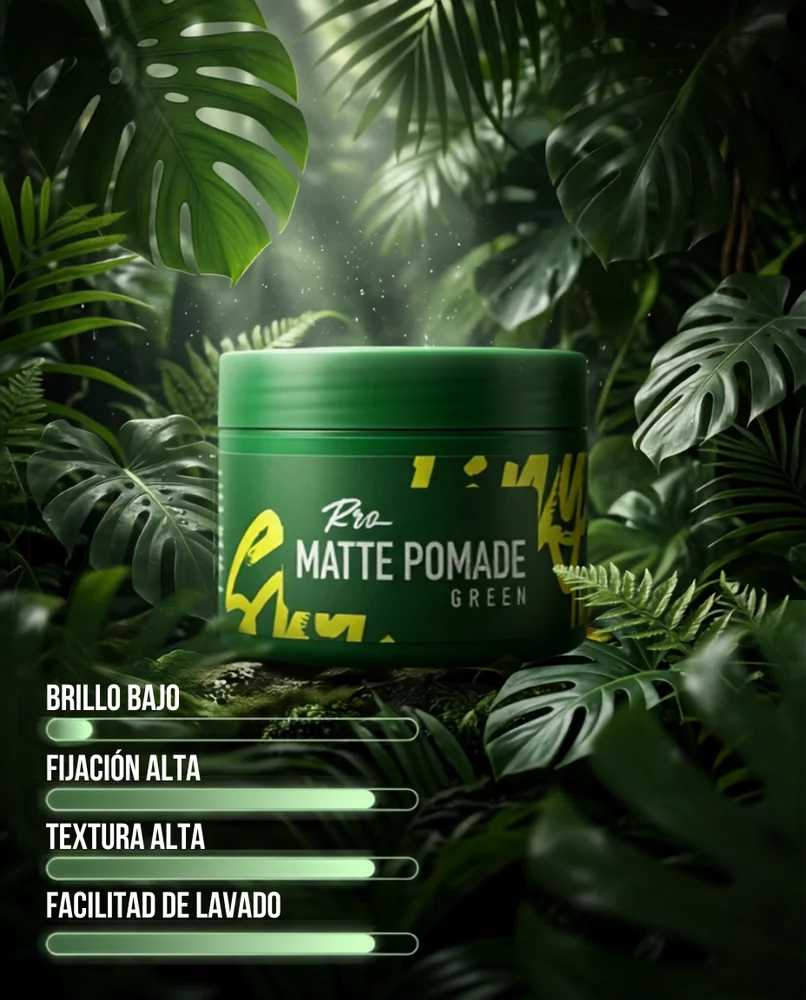
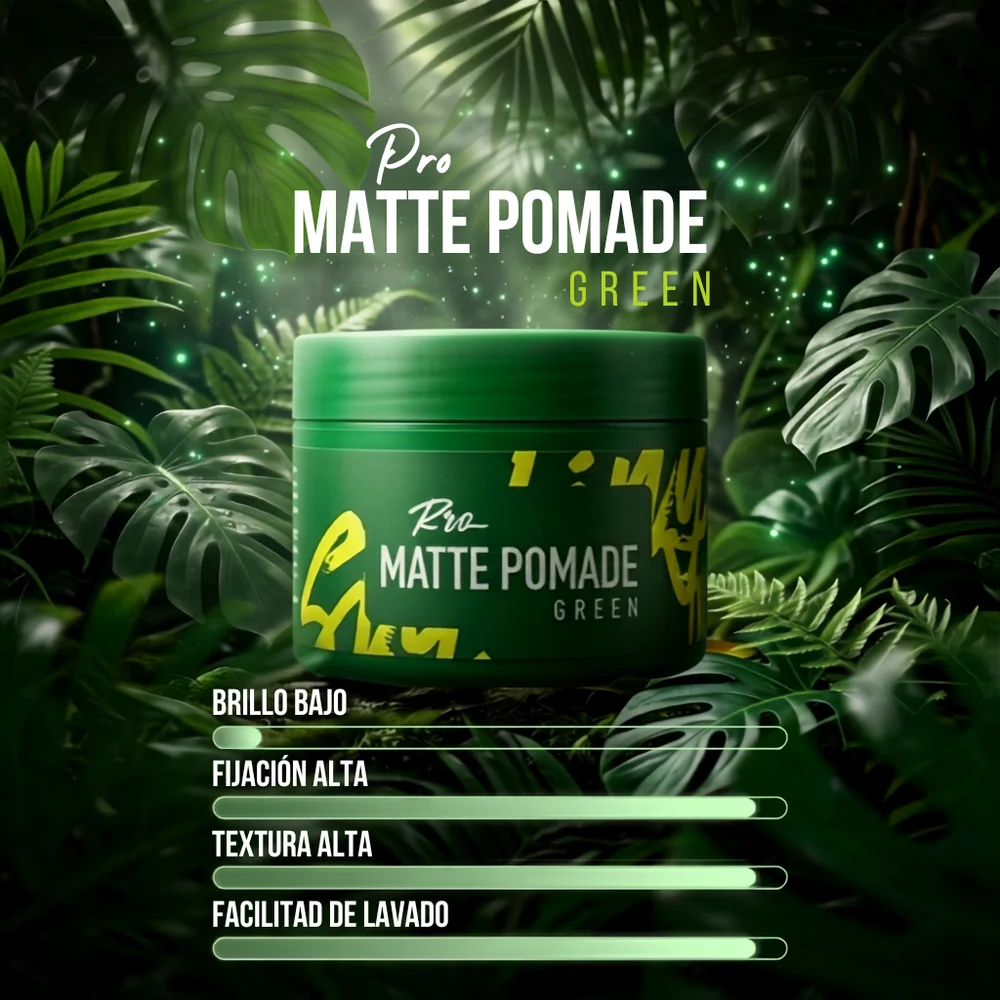
Reemplazar 6 imagenes informativas por versiones cuadradas + swap por pointerdown
El negocio re-subio 6 de las 9 piezas informativas (Peony, Fuchsia, Red, Brown, Green, Spider Wax Purple) ya en formato cuadrado 1:1 -- se convierten a webp 1000x1000 sin necesidad de letterbox, igual que Orange y Blue que ya estaban asi. Se agrega ?v=2 a esas 6 rutas en manifest.js para invalidar cache ya que el nombre de archivo no cambio. Cambia tambien el mecanismo de deteccion de toque en mobile de 'touchstart' a 'pointerdown' (mas consistente entre navegadores moviles) para asegurar que el cambio de foto ocurra apenas se apoya el dedo, sin depender de que se complete un tap/click.

diff --git a/lib/manifest.js b/lib/manifest.js
@@ -258,7 +258,7 @@
         id: "cera-deluxe-matte-wax-peony",
         icon: "tin",
         photo: "assets/img/products/cera-deluxe-matte-wax-peony-1.webp",
-        photoHover: "assets/img/products/cera-deluxe-matte-wax-peony-info.webp",
+        photoHover: "assets/img/products/cera-deluxe-matte-wax-peony-info.webp?v=2",
         category: "ceras",
         brand: "ROQVEL",
         name: "Cera Deluxe Matte Wax",
@@ -304,7 +304,7 @@
         id: "cera-deluxe-matte-pasta-fuchsia",
         icon: "tin",
         photo: "assets/img/products/cera-deluxe-matte-pasta-fuchsia-1.webp",
-        photoHover: "assets/img/products/cera-deluxe-matte-pasta-fuchsia-info.webp",
+        photoHover: "assets/img/products/cera-deluxe-matte-pasta-fuchsia-info.webp?v=2",
         category: "ceras",
         brand: "ROQVEL",
         name: "Cera Deluxe Matte",
@@ -337,7 +337,7 @@
         id: "cera-aqua-wax-red",
         icon: "tin",
         photo: "assets/img/products/cera-aqua-wax-red-1.webp",
-        photoHover: "assets/img/products/cera-aqua-wax-red-info.webp",
+        photoHover: "assets/img/products/cera-aqua-wax-red-info.webp?v=2",
         category: "ceras",
         brand: "ROQVEL",
         name: "Cera Aqua Wax con brillo",
@@ -369,7 +369,7 @@
         id: "cera-spider-wax-purple",
         icon: "tin",
         photo: "assets/img/products/cera-spider-wax-purple-1.webp",
-        photoHover: "assets/img/products/cera-spider-wax-purple-info.webp",
+        photoHover: "assets/img/products/cera-spider-wax-purple-info.webp?v=2",
         category: "ceras",
         brand: "ROQVEL",
         name: "Cera Spider Wax con brillo",
@@ -385,7 +385,7 @@
         id: "cera-matte-wax-brown",
         icon: "tin",
         photo: "assets/img/products/cera-matte-wax-brown-1.webp",
-        photoHover: "assets/img/products/cera-matte-wax-brown-info.webp",
+        photoHover: "assets/img/products/cera-matte-wax-brown-info.webp?v=2",
         category: "ceras",
         brand: "ROQVEL",
         name: "Cera Matte Wax",
@@ -417,7 +417,7 @@
         id: "cera-matte-pomade-green",
         icon: "jar",
         photo: "assets/img/products/cera-matte-pomade-green-1.webp",
-        photoHover: "assets/img/products/cera-matte-pomade-green-info.webp",
+        photoHover: "assets/img/products/cera-matte-pomade-green-info.webp?v=2",
         category: "ceras",
         brand: "ROQVEL",
         name: "Cera Matte Pomade",

diff --git a/main.js b/main.js
@@ -612,27 +612,31 @@
 
   /* ---------- Cambio de foto en tarjetas de producto (home) ----------
      Productos con photoHover (ver manifest.js) muestran una segunda
-     foto — el envase abierto — al pasar el mouse por encima en desktop
-     (puro CSS, ver .has-swap en styles.css). En mobile/touch no existe
-     :hover real, así que se simula con el dedo: el cambio ocurre apenas
-     el dedo TOCA cualquier parte de la tarjeta completa (touchstart en
-     .shop-card, no solo en la foto), sin esperar a que se complete un
-     click/tap. Como la foto ya no dispara navegación en touch (para eso
-     está el nombre/"Ver detalle"/botones, que siguen intactos), cada
-     toque alterna entre ambas fotos. Delegado en document para cubrir
-     tarjetas que se re-renderizan (filtros, carrusel mobile por
-     categoría). */
+     foto — el envase abierto o, en las ceras, la pieza con más info —
+     al pasar el mouse por encima en desktop (puro CSS, ver .has-swap en
+     styles.css). En mobile/touch no existe :hover real, así que se
+     simula con el dedo: el cambio ocurre apenas el dedo TOCA cualquier
+     parte de la tarjeta completa (no solo la foto), sin esperar a que
+     se levante el dedo ni a que se complete un tap/click. Se usa
+     "pointerdown" (se dispara en el instante del contacto, para touch
+     Y mouse/pen por igual) en vez de "touchstart" — más consistente
+     entre navegadores móviles. Como la foto ya no dispara navegación en
+     touch (para eso está el nombre/"Ver detalle"/botones, que siguen
+     intactos), cada toque alterna entre ambas fotos. Delegado en
+     document para cubrir tarjetas que se re-renderizan (filtros,
+     carrusel mobile por categoría). */
   function initCardImageSwap() {
     if (window.matchMedia && window.matchMedia("(hover: hover) and (pointer: fine)").matches) return;
     document.addEventListener(
-      "touchstart",
+      "pointerdown",
       function (e) {
+        if (e.pointerType === "mouse") return;
         var card = e.target.closest(".shop-card");
         var visual = card && card.querySelector(".shop-card-visual.has-swap");
         if (!visual) return;
         visual.classList.toggle("is-flipped");
       },
-      { passive: true }
+      true
     );
     // La foto deja de ser un link funcional en touch (solo cambia de
     // imagen); se navega igual desde el nombre/"Ver detalle"/botones.

diff --git a/index.html b/index.html
@@ -1486,11 +1486,11 @@ height="0" width="0" style="display:none;visibility:hidden"></iframe></noscript>
 <script defer src="lib/ScrollTrigger.min.js"></script>
 <script defer src="lib/embla-carousel.umd.js"></script>
 <script defer src="lib/embla-carousel-autoplay.umd.js"></script>
-<script defer src="lib/manifest.js?v=20260770"></script>
+<script defer src="lib/manifest.js?v=20260771"></script>
 <script defer src="meta-events.js?v=1"></script>
 <script defer src="cart.js?v=20260770"></script>
 <script defer src="checkout.js?v=20260770"></script>
-<script defer src="main.js?v=20260779"></script>
+<script defer src="main.js?v=20260780"></script>
 <script defer src="popup-descuento.js?v=8"></script>
 <script defer src="image-comparison.js?v=1"></script>
 <script defer src="cookie-consent.js?v=1"></script>

diff --git a/producto-cera-deluxe-matte-wax-peony.html b/producto-cera-deluxe-matte-wax-peony.html
@@ -993,11 +993,11 @@ height="0" width="0" style="display:none;visibility:hidden"></iframe></noscript>
      SCRIPTS — mismo orden/base que index.html (sin gsap/Embla:
      esta página no los necesita)
      ============================================================ -->
-<script defer src="lib/manifest.js?v=20260770"></script>
+<script defer src="lib/manifest.js?v=20260771"></script>
 <script defer src="meta-events.js?v=1"></script>
 <script defer src="cart.js?v=20260770"></script>
 <script defer src="checkout.js?v=20260770"></script>
-<script defer src="main.js?v=20260779"></script>
+<script defer src="main.js?v=20260780"></script>
 <script defer src="product.js?v=20260770"></script>
 <script defer src="pdp-redesign.js?v=2"></script>
 <script defer src="popup-descuento.js?v=8"></script>

diff --git a/producto-aceite-barba-maxcare.html b/producto-aceite-barba-maxcare.html
@@ -912,11 +912,11 @@ height="0" width="0" style="display:none;visibility:hidden"></iframe></noscript>
   </button>
 </div>
 
-<script defer src="lib/manifest.js?v=20260770"></script>
+<script defer src="lib/manifest.js?v=20260771"></script>
 <script defer src="meta-events.js?v=1"></script>
 <script defer src="cart.js?v=20260770"></script>
 <script defer src="checkout.js?v=20260770"></script>
-<script defer src="main.js?v=20260779"></script>
+<script defer src="main.js?v=20260780"></script>
 <script defer src="product.js?v=20260770"></script>
 <script defer src="pdp-redesign.js?v=2"></script>
 <script defer src="popup-descuento.js?v=8"></script>

diff --git a/producto-cera-aqua-wax-blue.html b/producto-cera-aqua-wax-blue.html
@@ -906,11 +906,11 @@ height="0" width="0" style="display:none;visibility:hidden"></iframe></noscript>
   </button>
 </div>
 
-<script defer src="lib/manifest.js?v=20260770"></script>
+<script defer src="lib/manifest.js?v=20260771"></script>
 <script defer src="meta-events.js?v=1"></script>
 <script defer src="cart.js?v=20260770"></script>
 <script defer src="checkout.js?v=20260770"></script>
-<script defer src="main.js?v=20260779"></script>
+<script defer src="main.js?v=20260780"></script>
 <script defer src="product.js?v=20260770"></script>
 <script defer src="pdp-redesign.js?v=2"></script>
 <script defer src="popup-descuento.js?v=8"></script>

diff --git a/producto-cera-aqua-wax-orange.html b/producto-cera-aqua-wax-orange.html
@@ -953,11 +953,11 @@ height="0" width="0" style="display:none;visibility:hidden"></iframe></noscript>
   </button>
 </div>
 
-<script defer src="lib/manifest.js?v=20260770"></script>
+<script defer src="lib/manifest.js?v=20260771"></script>
 <script defer src="meta-events.js?v=1"></script>
 <script defer src="cart.js?v=20260770"></script>
 <script defer src="checkout.js?v=20260770"></script>
-<script defer src="main.js?v=20260779"></script>
+<script defer src="main.js?v=20260780"></script>
 <script defer src="product.js?v=20260770"></script>
 <script defer src="pdp-redesign.js?v=2"></script>
 <script defer src="popup-descuento.js?v=8"></script>

diff --git a/producto-cera-aqua-wax-red.html b/producto-cera-aqua-wax-red.html
@@ -906,11 +906,11 @@ height="0" width="0" style="display:none;visibility:hidden"></iframe></noscript>
   </button>
 </div>
 
-<script defer src="lib/manifest.js?v=20260770"></script>
+<script defer src="lib/manifest.js?v=20260771"></script>
 <script defer src="meta-events.js?v=1"></script>
 <script defer src="cart.js?v=20260770"></script>
 <script defer src="checkout.js?v=20260770"></script>
-<script defer src="main.js?v=20260779"></script>
+<script defer src="main.js?v=20260780"></script>
 <script defer src="product.js?v=20260770"></script>
 <script defer src="pdp-redesign.js?v=2"></script>
 <script defer src="popup-descuento.js?v=8"></script>

diff --git a/producto-cera-cream-wax-fiber-effect.html b/producto-cera-cream-wax-fiber-effect.html
@@ -906,11 +906,11 @@ height="0" width="0" style="display:none;visibility:hidden"></iframe></noscript>
   </button>
 </div>
 
-<script defer src="lib/manifest.js?v=20260770"></script>
+<script defer src="lib/manifest.js?v=20260771"></script>
 <script defer src="meta-events.js?v=1"></script>
 <script defer src="cart.js?v=20260770"></script>
 <script defer src="checkout.js?v=20260770"></script>
-<script defer src="main.js?v=20260779"></script>
+<script defer src="main.js?v=20260780"></script>
 <script defer src="product.js?v=20260770"></script>
 <script defer src="pdp-redesign.js?v=2"></script>
 <script defer src="popup-descuento.js?v=8"></script>

diff --git a/producto-cera-deluxe-matte-pasta-fuchsia.html b/producto-cera-deluxe-matte-pasta-fuchsia.html
@@ -906,11 +906,11 @@ height="0" width="0" style="display:none;visibility:hidden"></iframe></noscript>
   </button>
 </div>
 
-<script defer src="lib/manifest.js?v=20260770"></script>
+<script defer src="lib/manifest.js?v=20260771"></script>
 <script defer src="meta-events.js?v=1"></script>
 <script defer src="cart.js?v=20260770"></script>
 <script defer src="checkout.js?v=20260770"></script>
-<script defer src="main.js?v=20260779"></script>
+<script defer src="main.js?v=20260780"></script>
 <script defer src="product.js?v=20260770"></script>
 <script defer src="pdp-redesign.js?v=2"></script>
 <script defer src="popup-descuento.js?v=8"></script>

diff --git a/producto-cera-matte-pomade-green.html b/producto-cera-matte-pomade-green.html
@@ -917,11 +917,11 @@ height="0" width="0" style="display:none;visibility:hidden"></iframe></noscript>
   </button>
 </div>
 
-<script defer src="lib/manifest.js?v=20260770"></script>
+<script defer src="lib/manifest.js?v=20260771"></script>
 <script defer src="meta-events.js?v=1"></script>
 <script defer src="cart.js?v=20260770"></script>
 <script defer src="checkout.js?v=20260770"></script>
-<script defer src="main.js?v=20260779"></script>
+<script defer src="main.js?v=20260780"></script>
 <script defer src="product.js?v=20260770"></script>
 <script defer src="pdp-redesign.js?v=2"></script>
 <script defer src="popup-descuento.js?v=8"></script>

diff --git a/producto-cera-matte-wax-brown.html b/producto-cera-matte-wax-brown.html
@@ -912,11 +912,11 @@ height="0" width="0" style="display:none;visibility:hidden"></iframe></noscript>
   </button>
 </div>
 
-<script defer src="lib/manifest.js?v=20260770"></script>
+<script defer src="lib/manifest.js?v=20260771"></script>
 <script defer src="meta-events.js?v=1"></script>
 <script defer src="cart.js?v=20260770"></script>
 <script defer src="checkout.js?v=20260770"></script>
-<script defer src="main.js?v=20260779"></script>
+<script defer src="main.js?v=20260780"></script>
 <script defer src="product.js?v=20260770"></script>
 <script defer src="pdp-redesign.js?v=2"></script>
 <script defer src="popup-descuento.js?v=8"></script>
